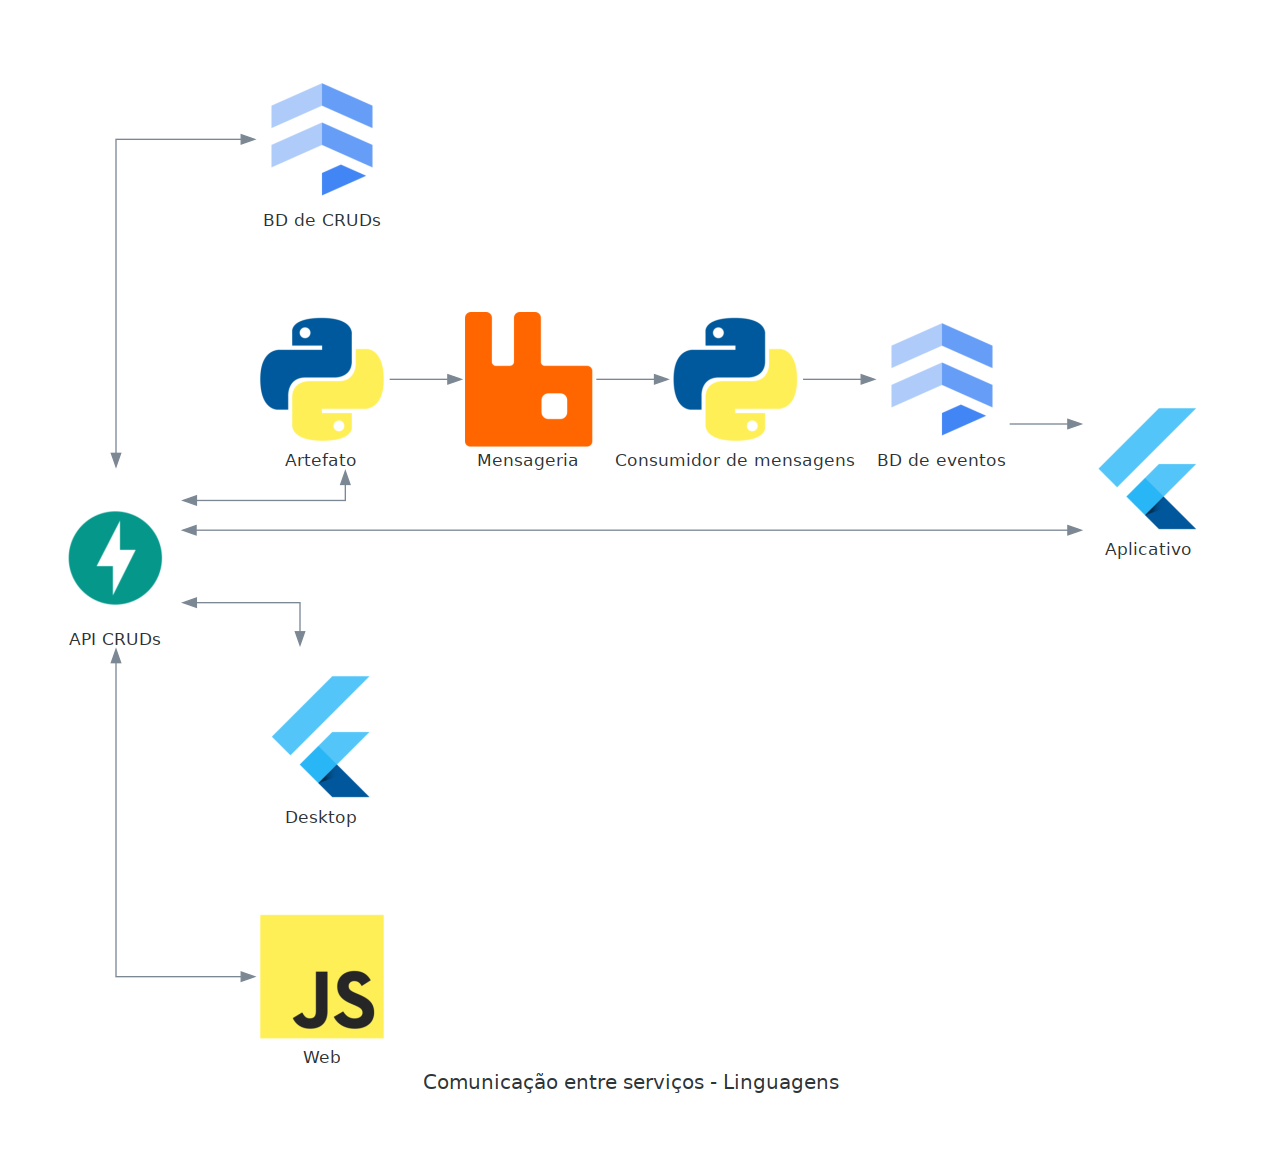
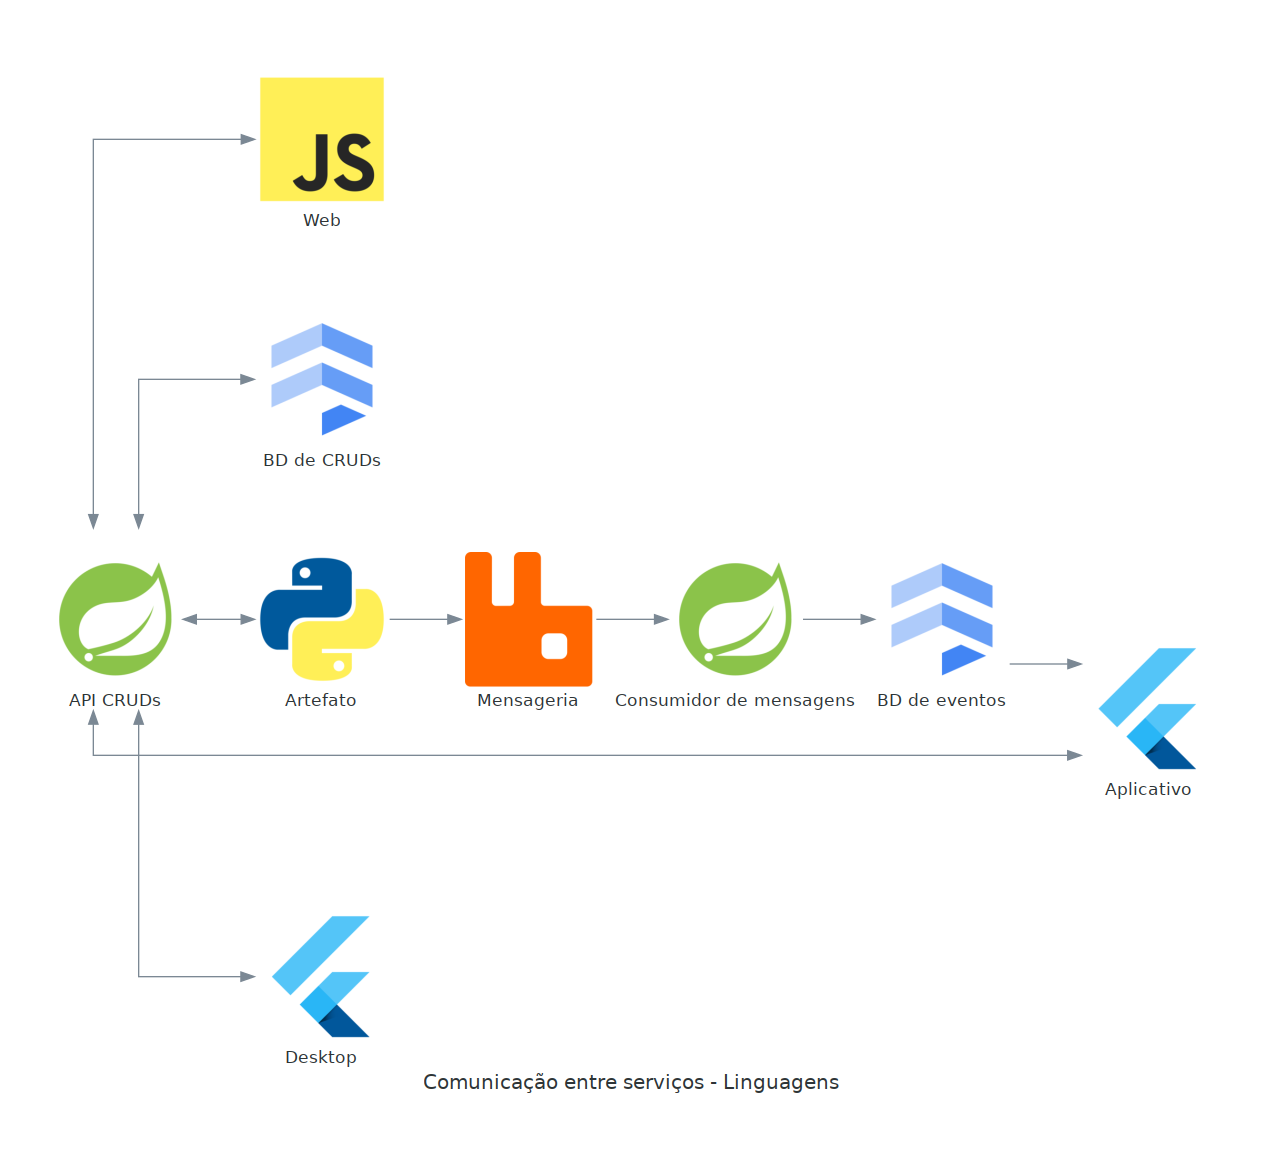
feat: atualiza diagramas com spring boot

diff --git a/docs/diagramas/comunicacao_v2.py b/docs/diagramas/comunicacao_v2.py
@@ -2,11 +2,8 @@ import diagrams as d
 import diagrams.programming.language as pl
 import diagrams.programming.framework as pf
 import diagrams.onprem.queue as oq
-import diagrams.onprem.database as od
 import diagrams.gcp.database as gd
-import diagrams.gcp.analytics as ga
 import diagrams.gcp.compute as gc
-import diagrams.firebase.develop as fd
 import diagrams.firebase.base as fb
 
 
@@ -14,15 +11,16 @@ with d.Diagram('Comunicação entre serviços - Linguagens',
                 filename='comunicação_entre_serviços_v2',
                 graph_attr={'margin': '-1.5, -1.5'},
                 show=False):
-    api = pf.FastAPI('API CRUDs')
-    consumer = pl.Python('Consumidor de mensagens')
+    api = pf.Spring('API CRUDs')
+    consumer = pf.Spring('Consumidor de mensagens')
+    web = pl.Javascript('Painel de Admin - Web')
+
     bd = gd.Firestore('BD de CRUDs')
     bd_eventos = gd.Firestore('BD de eventos')
     artefato = pl.Python('Artefato')
     rabbitmq = oq.RabbitMQ('Mensageria')
     aplicativo = pf.Flutter('Aplicativo')
     desktop = pf.Flutter('Desktop')
-    web = pl.Javascript('Web')
 
     api >>  d.Edge(reverse=True) >> [artefato, desktop, bd]
     api >> d.Edge(reverse=True) >> aplicativo
@@ -35,14 +33,16 @@ with d.Diagram('Comunicação entre serviços - Infraestrutura',
                 graph_attr={'margin': '-1.5, -1.5'},
                 show=False):
     api = gc.Run('API CRUDs')
-    consumer = gc.Run('Consumidor de mensagens')
+    consumer = gc.Run('Consumidor')
+    web = gc.Run('Painel de Admin - Web')
+
     bd = gd.Firestore('BD de CRUDs')
-    bd_eventos = fd.Firestore('BD de eventos')
+    bd_eventos = gd.Firestore('BD de eventos')
+
     artefato = pl.Python('Artefato')
     rabbitmq = oq.RabbitMQ('Mensageria')
-    aplicativo = fb.Firebase('Aplicativo')
+    aplicativo = pf.Flutter('Aplicativo')
     desktop = pf.Flutter('Desktop')
-    web = gc.Run('Web')
 
     api >>  d.Edge(reverse=True) >> [artefato, desktop, bd]
     api >> d.Edge(reverse=True) >> aplicativo
